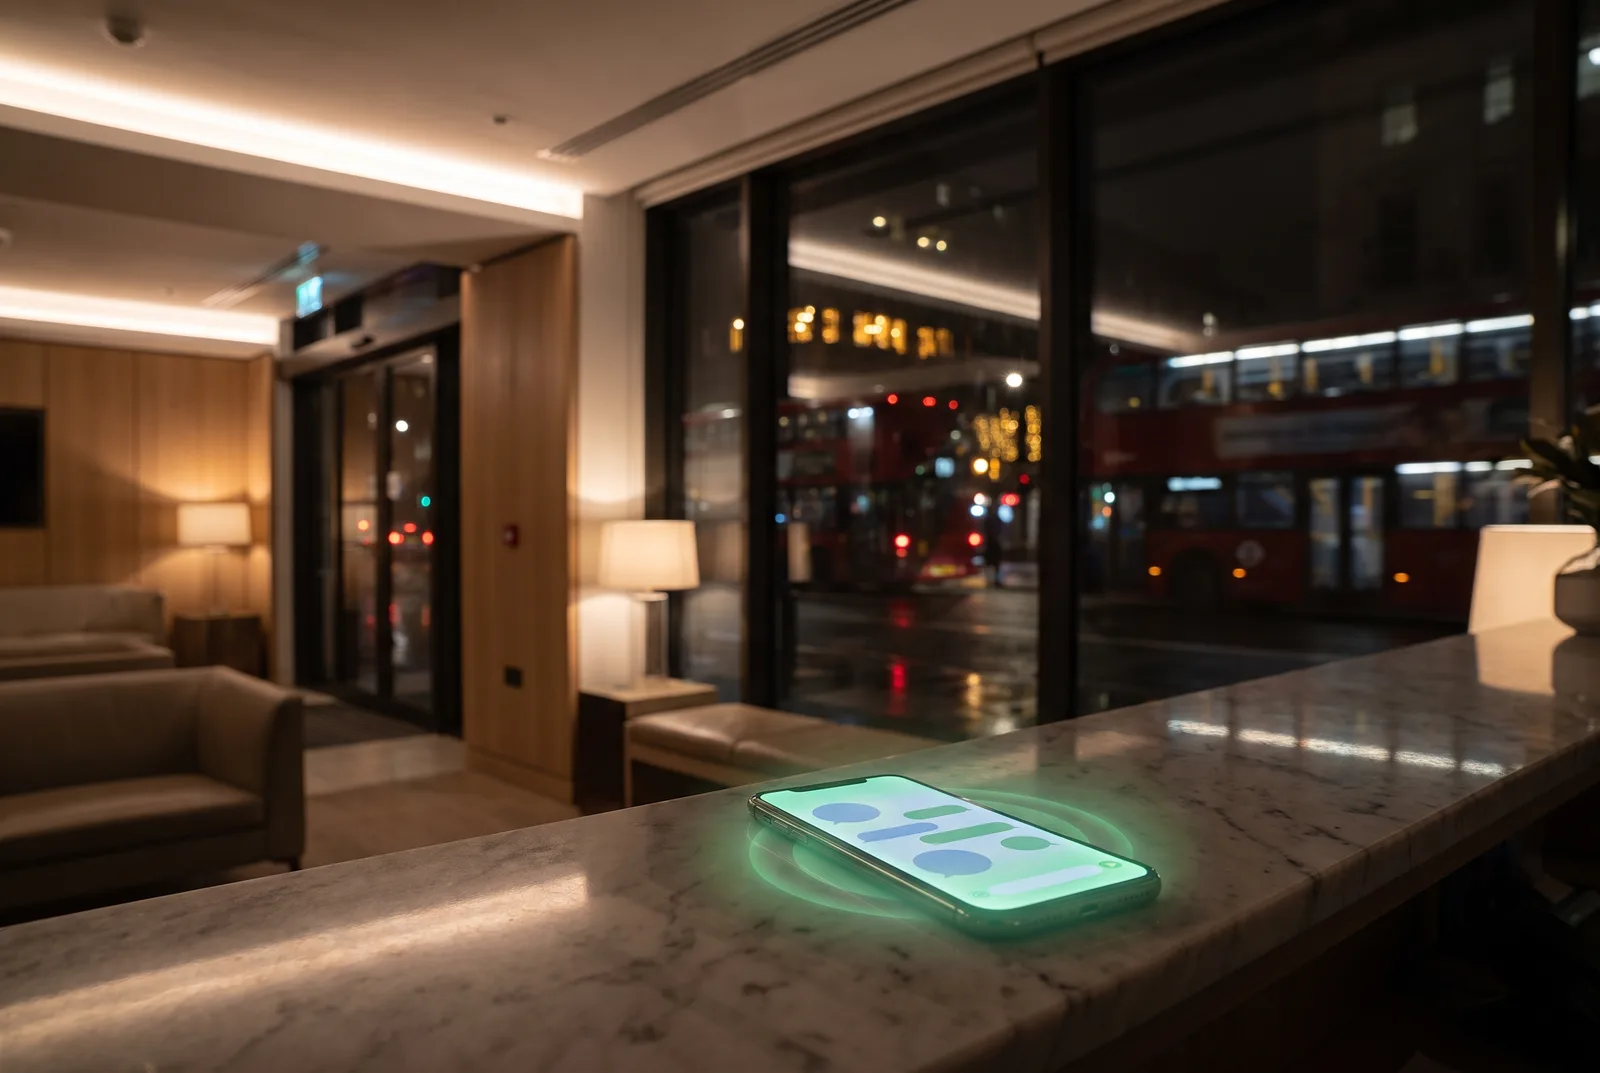
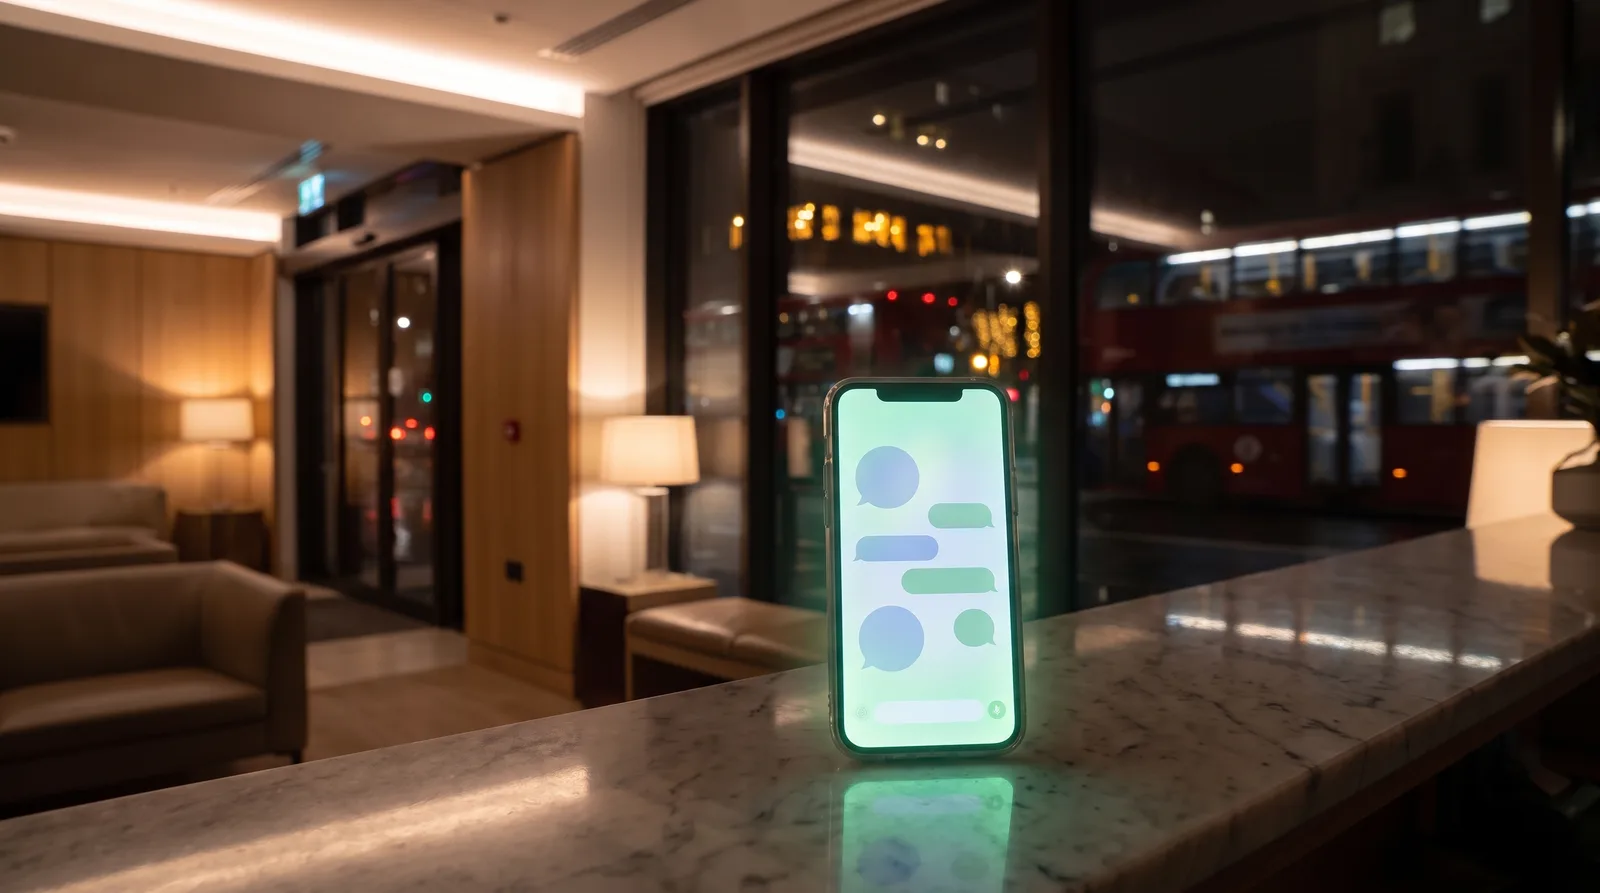
AI service photo: phone recomposed to the centre of the frame
The original had the phone in the bottom strip, under the intro card.
Regenerated with the phone mid-frame and the counter filling the lower
third.

Claude-Session: https://claude.ai/code/session_017a9WJAiayvfXmBvDun74Em

diff --git a/plastic-surgery/index.html b/plastic-surgery/index.html
@@ -685,7 +685,7 @@ height="0" width="0" style="display:none;visibility:hidden"></iframe></noscript>
         <!-- 12. AI -->
         <div class="svc-panel" id="svc-ai" data-name="AI and Automations" data-icon="ai" data-side="right" role="tabpanel">
           <div class="svc-hero">
-            <div class="svc-img"><img src="assets/ai/svc-ai.webp" alt="A clinic reception at night with a phone glowing with a chat conversation" loading="lazy" width="1600" height="1073"></div>
+            <div class="svc-img"><img src="assets/ai/svc-ai.webp" alt="A clinic reception at night with a phone glowing with a chat conversation" loading="lazy" width="1600" height="893"></div>
             <div class="svc-card">
               <p class="svc-kicker">Conversational AI, Voice AI and automations</p>
               <h3>Speed to lead, at three in the morning.</h3>
